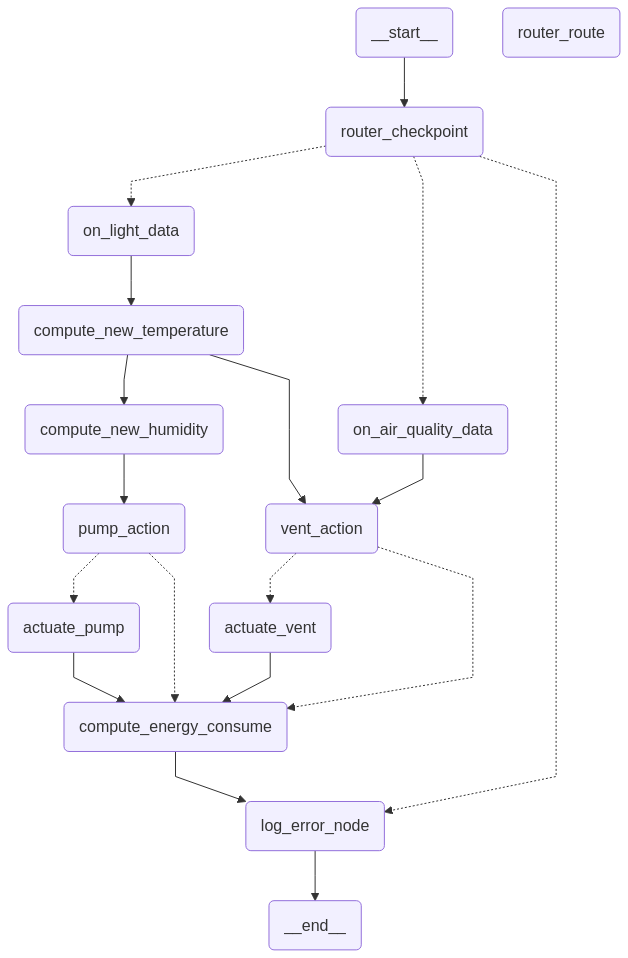
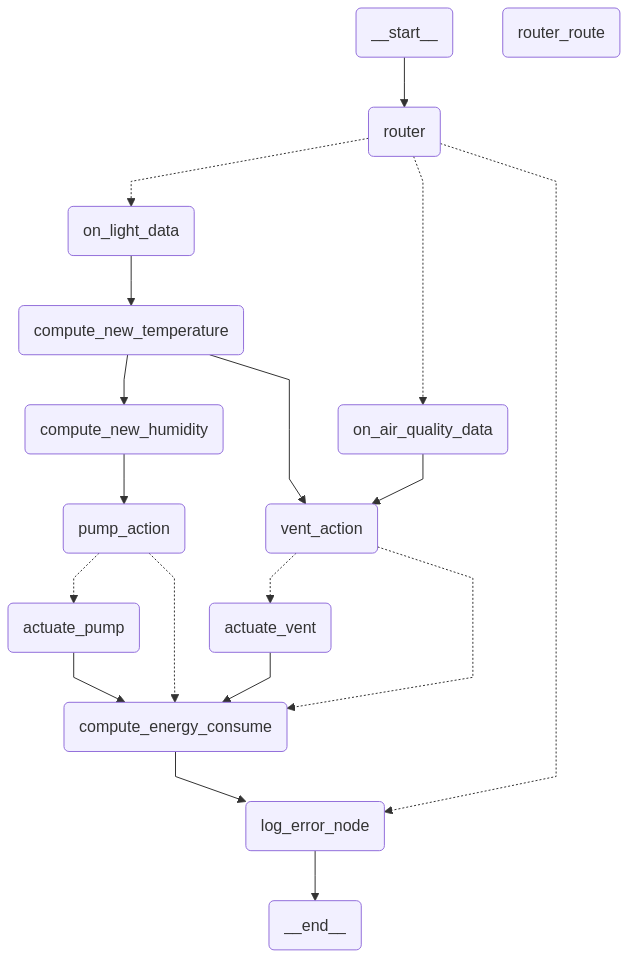
Debug state management and begin multi-cycle, multi-zone implementation

Changed region(s): [[0.8774, 0.2119, 0.9076, 0.7871], [0.5143, 0.1211, 0.7866, 0.1816]]

diff --git a/src/stategraph/stategraph_builder.py b/src/stategraph/stategraph_builder.py
@@ -2,7 +2,7 @@ from langgraph.graph                  import StateGraph, START, END
 from langgraph.checkpoint.memory      import MemorySaver
 from stategraph.state.state           import State
 from stategraph.nodes                 import (
-    router_checkpoint, router_route, on_light_data, on_air_quality_data,
+    router, router_route, on_light_data, on_air_quality_data,
     compute_new_temperature, compute_new_humidity, compute_energy_consume,
     vent_action, pump_action, actuate_vent, actuate_pump, log_error_node
 )
@@ -13,7 +13,7 @@ def build_stategraph():
 
     # -- Nodi --
     nodes = [
-        router_checkpoint,
+        router,
         router_route, 
         on_light_data, 
         on_air_quality_data,
@@ -31,10 +31,10 @@ def build_stategraph():
         graph_builder.add_node(node.__name__, node)
     
     # -- Edges --
-    graph_builder.add_edge(START, "router_checkpoint")
+    graph_builder.add_edge(START, "router")
 
     graph_builder.add_conditional_edges(
-        "router_checkpoint",
+        "router",
         router_route,
         {
             "on_light_data": "on_light_data",
@@ -48,17 +48,6 @@ def build_stategraph():
     graph_builder.add_edge("on_light_data", "compute_new_temperature")
 
     graph_builder.add_edge("compute_new_temperature", "vent_action")
-
-    '''
-    graph_builder.add_conditional_edges(
-        "vent_action", 
-        vent_action,
-        {
-            "actuate_vent": "actuate_vent", 
-            "compute_energy_consume": "compute_energy_consume"
-        }
-    )
-    '''
     
     graph_builder.add_edge("actuate_vent", "compute_energy_consume")
 
@@ -66,16 +55,6 @@ def build_stategraph():
     graph_builder.add_edge("compute_new_temperature", "compute_new_humidity")
     graph_builder.add_edge("compute_new_humidity", "pump_action")
 
-    '''
-    graph_builder.add_conditional_edges(
-        "pump_action", 
-        pump_action,
-        {
-            "actuate_pump": "actuate_pump", 
-            "compute_energy_consume": "compute_energy_consume"
-        }
-    )
-    '''
     graph_builder.add_edge("actuate_pump", "compute_energy_consume")
 
     # -- Ramo finale comune
@@ -85,6 +64,3 @@ def build_stategraph():
     # -- Compilazione --
     checkpointer = MemorySaver()
     return graph_builder.compile(checkpointer=checkpointer)
-
-
-

diff --git a/src/stategraph/nodes/actuate_vent.py b/src/stategraph/nodes/actuate_vent.py
@@ -1,12 +1,14 @@
 from stategraph.state.state import State 
 
 def actuate_vent(state: State) -> State: 
+    events_to_add = []
+
     # Termometro:
     try: 
         delta_actuator = state["delta_temp"] * state["env"]["k_fan_temp"]
         state["thermometer"] -= delta_actuator
     except Exception as e: 
-        state["events"].append(f"computation error in actuate_vent (thermometer): {str(e)}")
+        events_to_add.append(f"computation error in actuate_vent (thermometer): {str(e)}")
 
     check_temp = state["thermometer"] < state["env"]["act_threshold_temp"]
     
@@ -15,11 +17,12 @@ def actuate_vent(state: State) -> State:
         delta_actuator = -state["env"]["k_fan_air"] * state["air_quality"]
         state["air_quality"] -= delta_actuator
     except Exception as e: 
-        state["events"].append(f"computation error in actuate_vent (air_quality): {str(e)}")
+        events_to_add.append(f"computation error in actuate_vent (air_quality): {str(e)}")
 
     check_air_quality = state["air_quality"] > state["act_threshold_air"]
 
     # Controllo ventola
     state["vent_on"] = check_temp or check_air_quality
+
     print(f"[actuate_vent] Actuation completed:\nVent: {state['vent_on']}\nTemp: {state['thermometer']}\nAir quality: {state['air_quality']}\n")
-    return state
+    return {"thermometer": state["thermometer"], "air_quality": state["air_quality"], "vent_on": state["vent_on"], "events": events_to_add}

diff --git a/src/stategraph/nodes/router_node.py b/src/stategraph/nodes/router_node.py
@@ -1,13 +1,12 @@
 from stategraph.state.state import State 
 
 # Mi serve un nodo fittizio per poter instradare correttamente il nodo verso i successivi
-def router_checkpoint(state: State) -> dict: 
+def router(state: State) -> dict: 
+    print(f"\n-- Start StateGraph invoke for zone {state['zone']} -- topic [{state['type']}] --\n")
     return {}
 
 def router_route(state: State):
-    # tolgo 'type' dallo state
-    type = state.pop("type", None) 
-    match type:
+    match state["type"]:
         case "light":
             print("[Router] Routing to: on_light_data")
             return "on_light_data"
@@ -15,6 +14,5 @@ def router_route(state: State):
             print("[Router] Routing to: on_air_quality_data")
             return "on_air_quality_data"
         case _:
-            print("[Router] Unknown type, exiting...")
-            state["events"].append(f"Unexpected mqtt topic message: {type}")
+            print(f"[Router] Unexpected mqtt topic message: {state['type']}")
             return "log_error_node"

diff --git a/src/stategraph/nodes/compute_energy_consume.py b/src/stategraph/nodes/compute_energy_consume.py
@@ -1,6 +1,7 @@
 from stategraph.state.state import State 
 
 def compute_energy_consume(state: State) -> State: 
+    events_to_add = []
     try: 
         energy_consume = state["env"]["idle_power"]
         if state["vent_on"]: 
@@ -8,8 +9,8 @@ def compute_energy_consume(state: State) -> State:
         if state["pump_on"]: 
             energy_consume += state["env"]["power_rating_pump"]
     except Exception as e: 
-        state["events"].append(f"computation error in energy_consume: {str(e)}")
+        events_to_add.append(f"computation error in energy_consume: {str(e)}")
 
     state["energy_consume"] = energy_consume
-    print(f"[compute_energy_consume] Energy consumed: {state['energy_consume']}\n\n")
-    return state
+    print(f"[compute_energy_consume] Energy consumed: {state['energy_consume']}\n")
+    return {"energy_consume": state["energy_consume"], "events": events_to_add}

diff --git a/src/stategraph/nodes/vent_action.py b/src/stategraph/nodes/vent_action.py
@@ -5,7 +5,7 @@ from typing import Literal
 def vent_action(state: State) -> Command[Literal["actuate_vent", "compute_energy_consume"]]: 
     if state["vent_on"]: 
         print(f"[vent_action] Vent is {'on' if state['vent_on'] else 'off'}, routing to: actuate_vent\n")
-        return Command(update=state, goto="actuate_vent")
+        return Command(update={}, goto="actuate_vent")
     
     air_quality = state["air_quality"]
     max_air_allowed = state["env"]["max_ppm"]
@@ -18,4 +18,4 @@ def vent_action(state: State) -> Command[Literal["actuate_vent", "compute_energy
 
     state["vent_on"] = needs_vent_for_air or needs_vent_for_temp
     print(f"[vent_action] Check completed, vent is in {'on' if state['vent_on'] else 'off'}\n")
-    return Command(update=state, goto="compute_energy_consume")
+    return Command(update={"vent_on": state["vent_on"]}, goto="compute_energy_consume")

diff --git a/src/stategraph/nodes/pump_action.py b/src/stategraph/nodes/pump_action.py
@@ -5,7 +5,7 @@ from typing import Literal
 def pump_action(state: State) -> Command[Literal["actuate_pump","compute_energy_consume"]]:
     if state["pump_on"]:
         print(f"[pump_action] Pump is {'on' if state['pump_on'] else 'off'}, routing to: actuate_pump\n")
-        return Command(update=state, goto="actuate_pump")
+        return Command(update={}, goto="actuate_pump")
     
     humidity = state["humidity"]
     min_allowed = state["env"]["min_hum"]
@@ -13,4 +13,4 @@ def pump_action(state: State) -> Command[Literal["actuate_pump","compute_energy_
     need_pump = humidity < min_allowed
     state["pump_on"] = need_pump
     print(f"[pump_action] Check completed, pump is in {'on' if state['pump_on'] else 'off'}\n")
-    return Command(update=state, goto="compute_energy_consume")
+    return Command(update={"pump_on": state["pump_on"]}, goto="compute_energy_consume")

diff --git a/src/stategraph/nodes/compute_new_humidity.py b/src/stategraph/nodes/compute_new_humidity.py
@@ -2,12 +2,13 @@ from stategraph.state.state import State
 
 # Δumidità = evap_coeff * temp - evap_offset 
 def compute_new_humidity(state: State) -> State:
+    events_to_add = []
     try: 
         rate = state["env"]["evap_coeff"] * state["thermometer"] - state["env"]["evap_offset"]
         state["evaporation_rate"] = max(rate, 0.0)
         state["humidity"] -= state["evaporation_rate"]
     except Exception as e: 
-        state["events"].append(f"computation error in humidity: {str(e)}")
+        events_to_add.append(f"computation error in humidity: {str(e)}")
           
     print(f"[compute_new_humidity] Updated humidity to {state['humidity']}\n")
-    return state
+    return {"humidity": state["humidity"], "evaporation_rate": state["evaporation_rate"], "events": events_to_add}

diff --git a/src/stategraph/nodes/actuate_pump.py b/src/stategraph/nodes/actuate_pump.py
@@ -1,12 +1,14 @@
 from stategraph.state.state import State 
 
 def actuate_pump(state: State) -> State: 
+    events_to_add = []
+
     try: 
         net_gain = state["env"]["pump_gain"] - state["evaporation_rate"]
         state["humidity"] += net_gain
     except Exception as e: 
-        state["events"].append(f"computation error in actuate_pump: {str(e)}")
+        events_to_add.append(f"computation error in actuate_pump: {str(e)}")
 
     state["pump_on"] = state["humidity"] < state["env"]["act_threshold_humidity"]
     print(f"[actuate_pump] Actuation completed:\nPump: {state['pump_on']}\nHumidity: {state['humidity']}\n")
-    return state
+    return {"humidity": state["humidity"], "pump_on": state["pump_on"], "events": events_to_add}

diff --git a/src/stategraph/nodes/compute_new_temperature.py b/src/stategraph/nodes/compute_new_temperature.py
@@ -2,12 +2,13 @@ from stategraph.state.state import State
 
 # Δtemp = ( ΔLuminosità / 10 ) * k 
 def compute_new_temperature(state: State) -> State: 
+    events_to_add = []
     try: 
         delta = state["light_delta"] / 10 * state["env"]["k_temp"]
         state["delta_temp"] = delta
         state["thermometer"] += state["delta_temp"]
     except Exception as e: 
-        state["events"].append(f"computation error in temperature: {str(e)}")
+        events_to_add.append(f"computation error in temperature: {str(e)}")
 
     print(f"[compute_new_temperature] Updated thermometer to {state['thermometer']}\n")
-    return state
+    return {"thermometer": state["thermometer"], "delta_temp": state["delta_temp"], "events": events_to_add}

diff --git a/src/stategraph/nodes/on_light_data.py b/src/stategraph/nodes/on_light_data.py
@@ -1,14 +1,13 @@
 from stategraph.state.state import State
 
 def on_light_data(state: State) -> State:
-    payload = state.pop("payload", None)
-
+    payload = state["payload"]
+    
     if payload is None or not isinstance(payload, float): 
         state["events"].append("invalid_payload_light")
-        return state 
-        # fallback -> stato precedente
+        return {"events": state["events"]}
 
     state["light"] += payload 
     state["light_delta"] = payload
     print(f"\n[on_light_data] Updated light to {state['light']}\n")
-    return state
+    return {"light": state["light"], "light_delta": state["light_delta"]}

diff --git a/src/stategraph/nodes/on_air_quality_data.py b/src/stategraph/nodes/on_air_quality_data.py
@@ -1,12 +1,12 @@
 from stategraph.state.state import State 
 
 def on_air_quality_data(state: State) -> State:
-    payload = state.pop("payload", None)
+    payload = state["payload"]
 
     if payload is None or not isinstance(payload, float) or payload < 400.: 
         state["events"].append("invalid_payload_air_quality")
-        return state 
-    
+        return {"events": state["events"]}
+
     state["air_quality"] = payload
     print(f"\n[on_air_quality_data] Updated air_quality to {state['air_quality']}\n")
-    return state
+    return {"air_quality": state["air_quality"]}

diff --git a/src/stategraph/nodes/log_error_node.py b/src/stategraph/nodes/log_error_node.py
@@ -1,9 +1,9 @@
 from stategraph.state.state import State 
 
 def log_error_node(state: State) -> State: 
-    if state["events"] is not None: 
-        print("\n[ERRORS DETECTED]\n")
+    if state["events"]: 
+        print("[ERRORS DETECTED]\n")
         for err in state["events"]: 
             print(f"-> [{err}]")
         state["events"].clear()
-    return state
+    return {"events": state["events"]}
